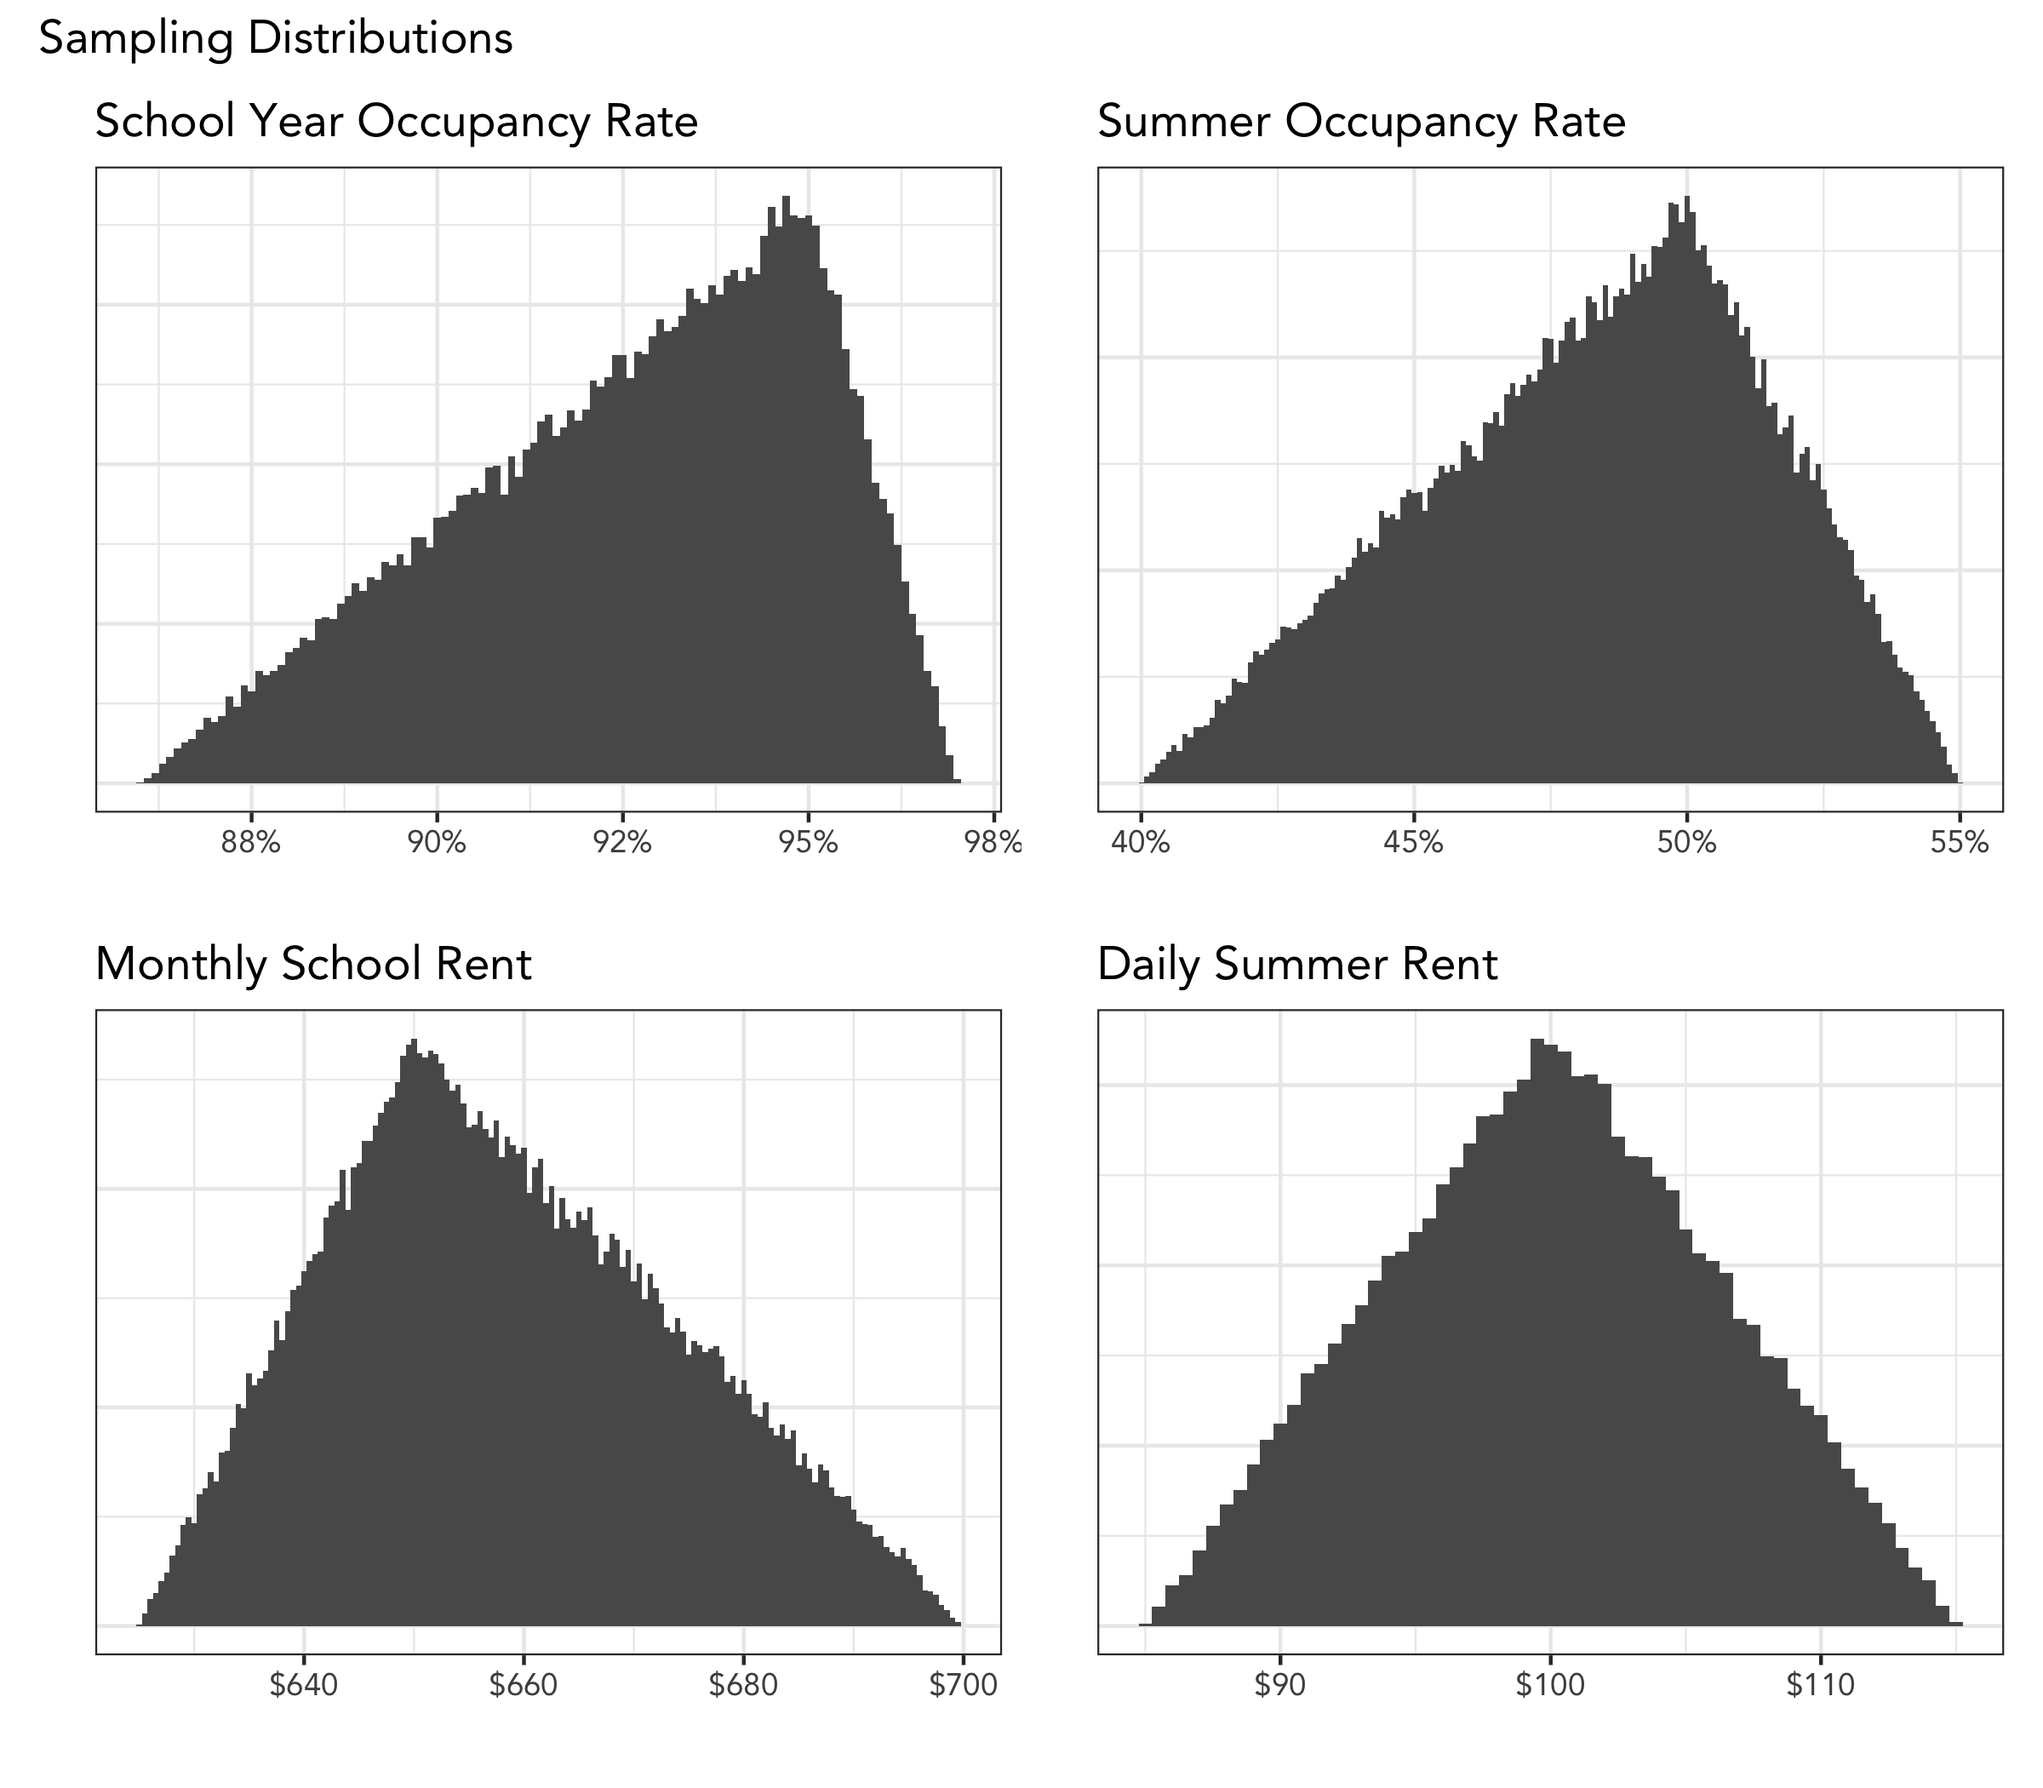
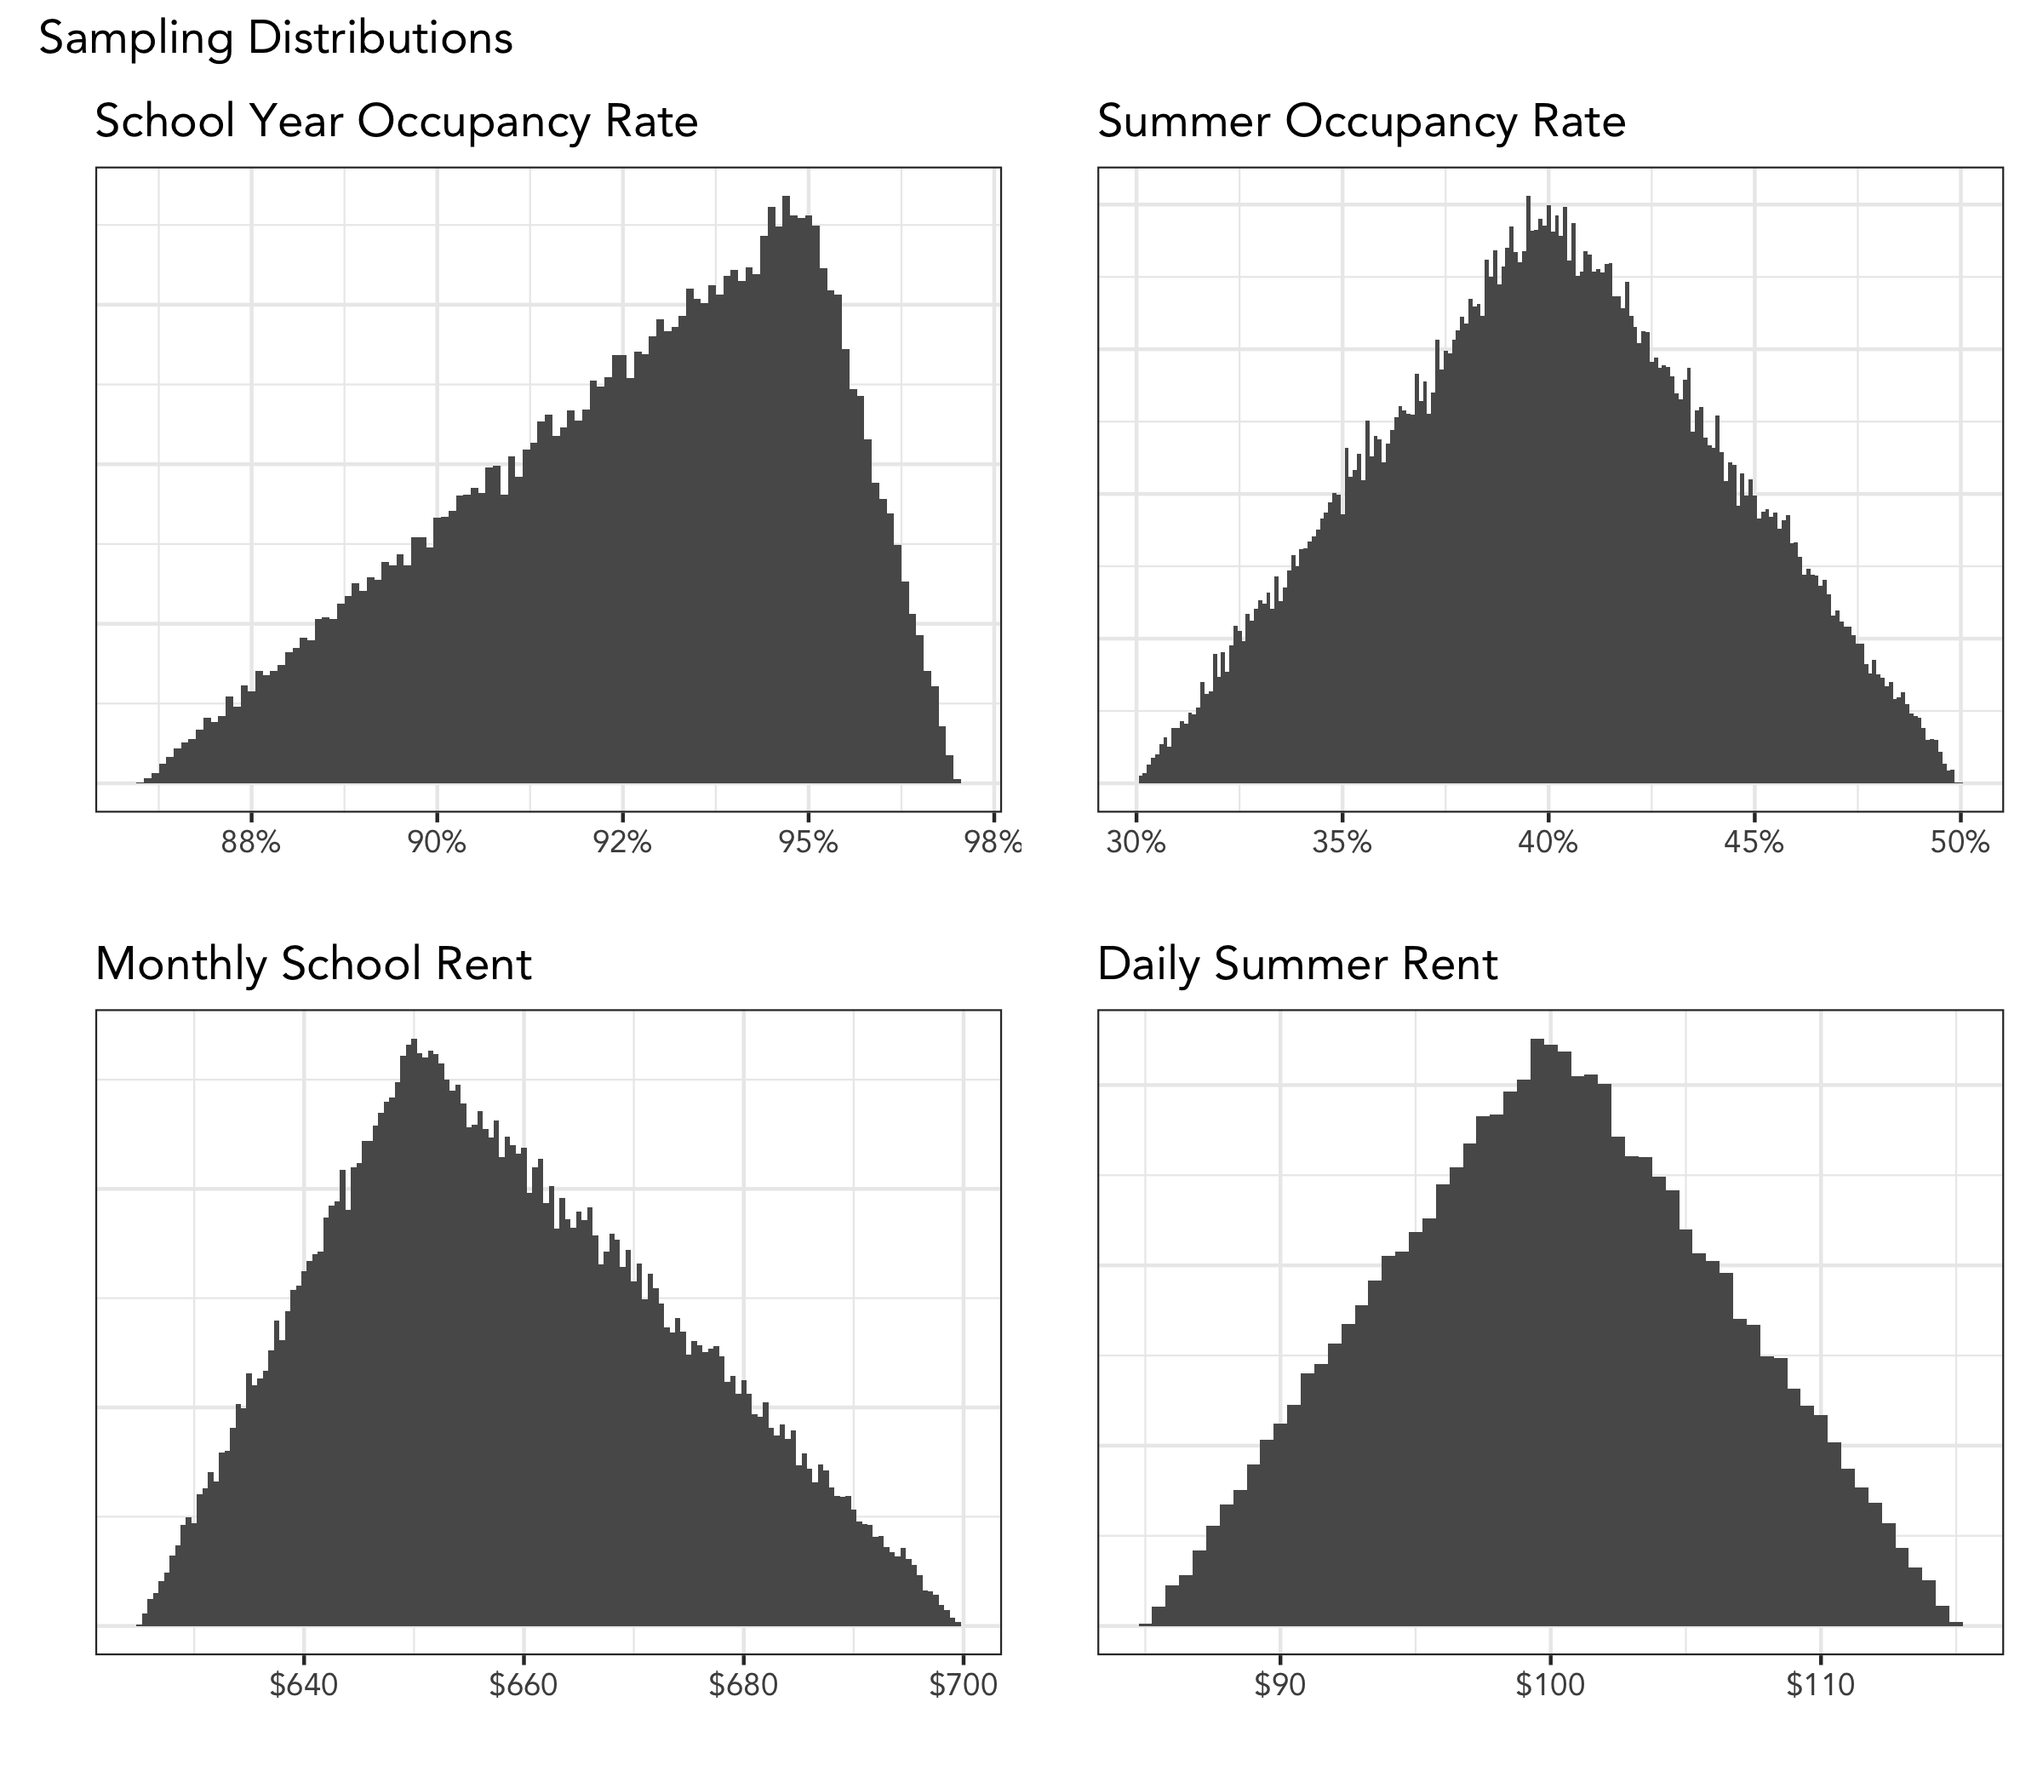
updated assumptions and generated new sensitivity analysis plots

diff --git a/tests/test_assumptions/test_calculate_investor_waterfall.py b/tests/test_assumptions/test_calculate_investor_waterfall.py
@@ -4,48 +4,48 @@ import numpy as np
 
 def test_noi(analyzer):
     noi = analyzer.investor_waterfall['net_operating_income']
-    true_noi = [125_796.72, 129_569.59, 133_456.68, 137_460.38, 141_584.19]
+    true_noi = [129611.46, 133499.80, 137504.80, 141629.94, 145878.84]
     assert noi.tolist() == pytest.approx(true_noi, abs=1)
-    assert analyzer.sell_price == pytest.approx(1_415_842, abs=1)
+    assert analyzer.sell_price == pytest.approx(1_458_788.40, abs=1)
 
 
 def test_cfaf(analyzer):
-    true_cfaf =  [59_996.48, 63_770.35, 67_657.44, 71_661.14, 75_784.95]
+    true_cfaf = [63_812, 67701, 71706, 75831, 80080]
     cfaf = analyzer.investor_waterfall['cash_flow_after_financing']
     assert cfaf.tolist() == pytest.approx(true_cfaf, abs=1)
 
 
 def test_net_book_value(analyzer):
-    assert analyzer.net_book_value == pytest.approx(1_194_127.54, abs=1)
+    assert analyzer.net_book_value == pytest.approx(1179663.636, abs=1)
 
 
 def test_total_taxes(analyzer):
-    assert analyzer.total_taxes == pytest.approx(52_024.69, abs=1)
+    assert analyzer.total_taxes == pytest.approx(63506.77, abs=1)
 
 
 def test_net_cash_from_sale(analyzer):
-    assert analyzer.net_cash_from_sale == pytest.approx(478_325.51, abs=1)
+    assert analyzer.net_cash_from_sale == pytest.approx(509_789.92, abs=1)
 
 
 def test_net_cash_flows(analyzer):
-    true_cash_flows = [-337_388.50, 59_996.48, 63_770.35, 67_657.44, 71_661.14, 554_110.46]
+    true_cash_flows = [-337387.5, 63812.22, 67700.56, 71705.56, 75830.70, 589869.52]
     cash_flows = analyzer.investor_waterfall['net_cash_flows']
     assert cash_flows == pytest.approx(true_cash_flows, abs=1)
 
 
 def test_deal_irr(analyzer):
-    assert analyzer.investor_waterfall['deal_irr'] == pytest.approx(0.2470, abs=0.001)
+    assert analyzer.investor_waterfall['deal_irr'] == pytest.approx(0.2675, abs=0.001)
 
 
 def test_investor_cash_flows(analyzer):
-    true_investor_cash_flows = [-303_648.75, 40_794.64, 42_681.58, 44_625.12, 46_626.97,  422_806.63]
+    true_investor_cash_flows = [-303648.75, 42702.51, 44646.68, 46649.18, 48711.75, 440686.16]
     investor_cash_flows = analyzer.investor_waterfall['investor']['cash_flows']
     assert investor_cash_flows == pytest.approx(true_investor_cash_flows, abs=1)
 
 
 def test_investor_irr(analyzer):
-    assert analyzer.investor_waterfall['investor']['irr'] == pytest.approx(0.1776, abs=0.001)
+    assert analyzer.investor_waterfall['investor']['irr'] == pytest.approx(0.1904, abs=0.001)
 
 
 def test_sponsor_irr(analyzer):
-    assert analyzer.investor_waterfall['sponsor']['irr'] == pytest.approx(0.7323, abs=0.001)
+    assert analyzer.investor_waterfall['sponsor']['irr'] == pytest.approx(0.7976, abs=0.001)

diff --git a/deal_analyzer/analyzer.py b/deal_analyzer/analyzer.py
@@ -25,7 +25,7 @@ class DealAnalyzer:
         operating_expenses_per_sf,
         capital_reserves_per_unit,
         annual_growth,
-        real_estate_tax_rate,
+        annual_real_estate_taxes,
         income_tax_rate,
         sell_cap_rate,
         years_held,
@@ -75,7 +75,7 @@ class DealAnalyzer:
         )
         self.capital_reserves_per_unit = capital_reserves_per_unit
         self.annual_growth = annual_growth
-        self.real_estate_tax_rate = real_estate_tax_rate
+        self.annual_real_estate_taxes = annual_real_estate_taxes
         self.income_tax_rate = income_tax_rate
 
         # sell
@@ -159,14 +159,13 @@ class DealAnalyzer:
             - self.summer_vacancy_cost
             - self.school_year_vacancy_cost
         )
-        self.real_estate_taxes = self.gross_rent_roll * self.real_estate_tax_rate
         self.operating_expenses = (
             self.operating_expenses_per_unit * self.number_of_units
         )
         self.capital_reserves = self.capital_reserves_per_unit * self.number_of_units
         self.net_operating_income = (
             self.net_rents
-            - self.real_estate_taxes
+            - self.annual_real_estate_taxes
             - self.operating_expenses
             - self.capital_reserves
         )

diff --git a/tests/conftest.py b/tests/conftest.py
@@ -1,37 +1,10 @@
 import pytest
 from deal_analyzer import DealAnalyzer
+from deal_analyzer import generate_deal_specs
 
 
 @pytest.fixture(scope="session")
 def analyzer():
-    deal_specs = dict(
-        purchase_price=895_000,
-        land_value=50_000,
-        depreciable_life=27.5,
-        building_sf=8_800,
-        rentable_sf=6_525,
-        improvement_cost_per_sf=62,
-        closing_costs=50_000,
-        debt_share=0.75,
-        interest_rate=0.0425,
-        term=5,
-        amortization_period=25,
-        number_of_units=27,
-        monthly_school_rent=650,
-        daily_summer_rent=100,
-        school_year_occupancy_rate=0.95,
-        summer_occupancy_rate=0.50,
-        operating_expenses_per_sf=10,
-        capital_reserves_per_unit=357.14,
-        annual_growth=0.03,
-        real_estate_tax_rate=0.12,
-        income_tax_rate=0.3960,
-        sell_cap_rate=0.10,
-        years_held=5,
-        investor_contribution=0.9,
-        investor_preferred_return=0.08,
-        investor_profit_share=0.5
-    )
-
+    deal_specs = generate_deal_specs()
     analyzer = DealAnalyzer(**deal_specs)
     return analyzer

diff --git a/tests/test_assumptions/test_calculate_first_year_setup.py b/tests/test_assumptions/test_calculate_first_year_setup.py
@@ -3,5 +3,5 @@ import pytest
 
 def test_first_year_setup(analyzer):
     assert analyzer.gross_rent_roll == 400950
-    assert analyzer.vacancy_rate == pytest.approx(0.322737, abs=0.00001)
-    assert analyzer.cash_flow_after_financing == pytest.approx(59_996.48, abs=0.01)
+    assert analyzer.vacancy_rate == pytest.approx(0.3833, abs=0.0001)
+    assert analyzer.cash_flow_after_financing == pytest.approx(63_812.22, abs=0.01)
